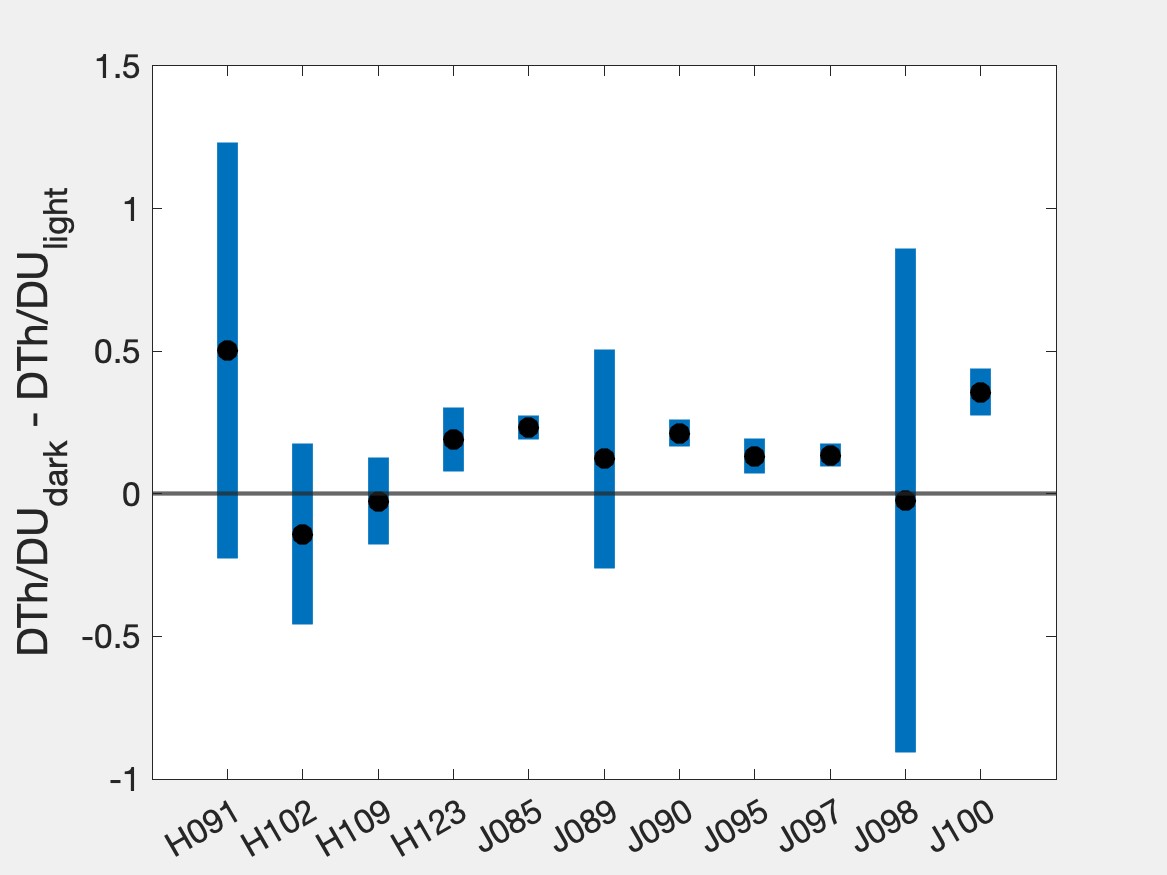
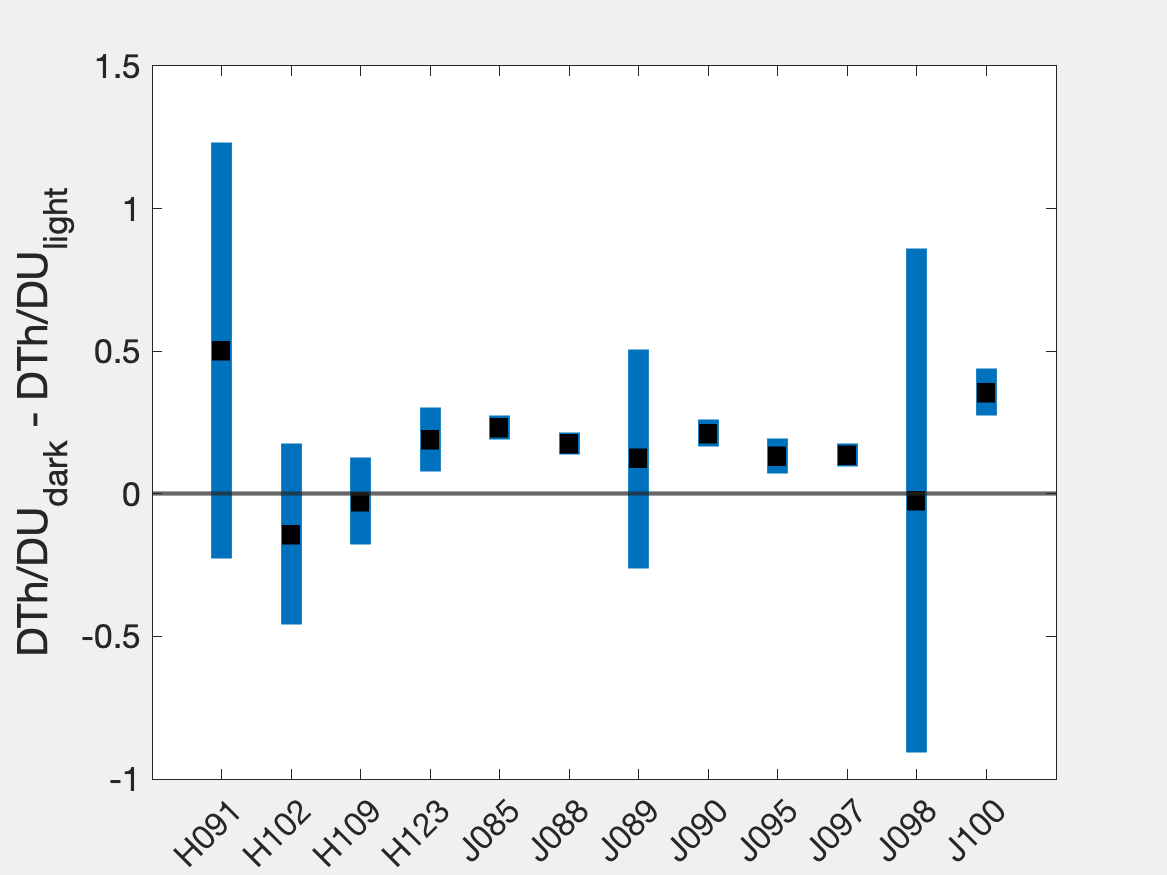
add J088 data from Yuanyuan

Changed region(s): [[0.1542, 0.1543, 0.8021, 0.864], [0.1234, 0.8949, 0.8638, 0.9874], [0.8329, 0.4011, 0.8638, 0.4937]]

diff --git a/CLBrightness_concThU.m b/CLBrightness_concThU.m
@@ -5,7 +5,7 @@ opts = spreadsheetImportOptions;
 opts.VariableNames = {'mixName', 'CLBrightness', 'DU', 'DTh'};
 opts.VariableTypes = {'string', 'categorical', 'double', 'double'};
 opts.Sheet = 'Tidy Data';
-opts.DataRange = 'E2:H269';
+opts.DataRange = 'E2:H288';
 opts.MissingRule = 'omitrow';
 
 data = readtable("CL Brightness DUvsDTh mol%.xlsx", opts);
@@ -46,8 +46,8 @@ errorbar(diffs.mean_DU, 2*uncts.ste_DU, '.', 'LineWidth', ...
     unctlinewidth, 'CapSize', 0, 'MarkerSize', 35, ...
     'MarkerEdgeColor', 'k', 'MarkerFaceColor', 'k')
 set(gca, "FontSize", 16)
-xlim([0, 12])
-xticks(1:11)
+xlim([0, 13])
+xticks(1:12)
 xticklabels(dark.mixName)
 yline(0, 'LineWidth', ylinewidth)
 ylabel("DU_{dark} - DU_{light}", 'FontSize', 20)
@@ -57,19 +57,19 @@ errorbar(diffs.mean_DTh, 2*uncts.ste_DTh, '.', 'LineWidth', ...
     unctlinewidth, 'CapSize', 0, 'MarkerSize', 35, ...
     'MarkerEdgeColor', 'k', 'MarkerFaceColor', 'k')
 set(gca, "FontSize", 16)
-xlim([0, 12])
-xticks(1:11)
+xlim([0, 13])
+xticks(1:12)
 xticklabels(dark.mixName)
 yline(0, 'LineWidth', ylinewidth)
 ylabel("DTh_{dark} - DTh_{light}", 'FontSize', 20)
 
 figure
-errorbar(diffs.mean_DThDU, 2*uncts.ste_DThDU, '.', 'LineWidth', ...
-    unctlinewidth, 'CapSize', 0, 'MarkerSize', 35, ...
+errorbar(diffs.mean_DThDU, 2*uncts.ste_DThDU, '_', 'LineWidth', ...
+    unctlinewidth, 'CapSize', 0, 'MarkerSize', 8, ...
     'MarkerEdgeColor', 'k', 'MarkerFaceColor', 'k')
 set(gca, "FontSize", 16)
-xlim([0, 12])
-xticks(1:11)
+xlim([0, 13])
+xticks(1:12)
 xticklabels(dark.mixName)
 yline(0, 'LineWidth', ylinewidth)
 ylabel("DTh/DU_{dark} - DTh/DU_{light}", 'FontSize', 20)
